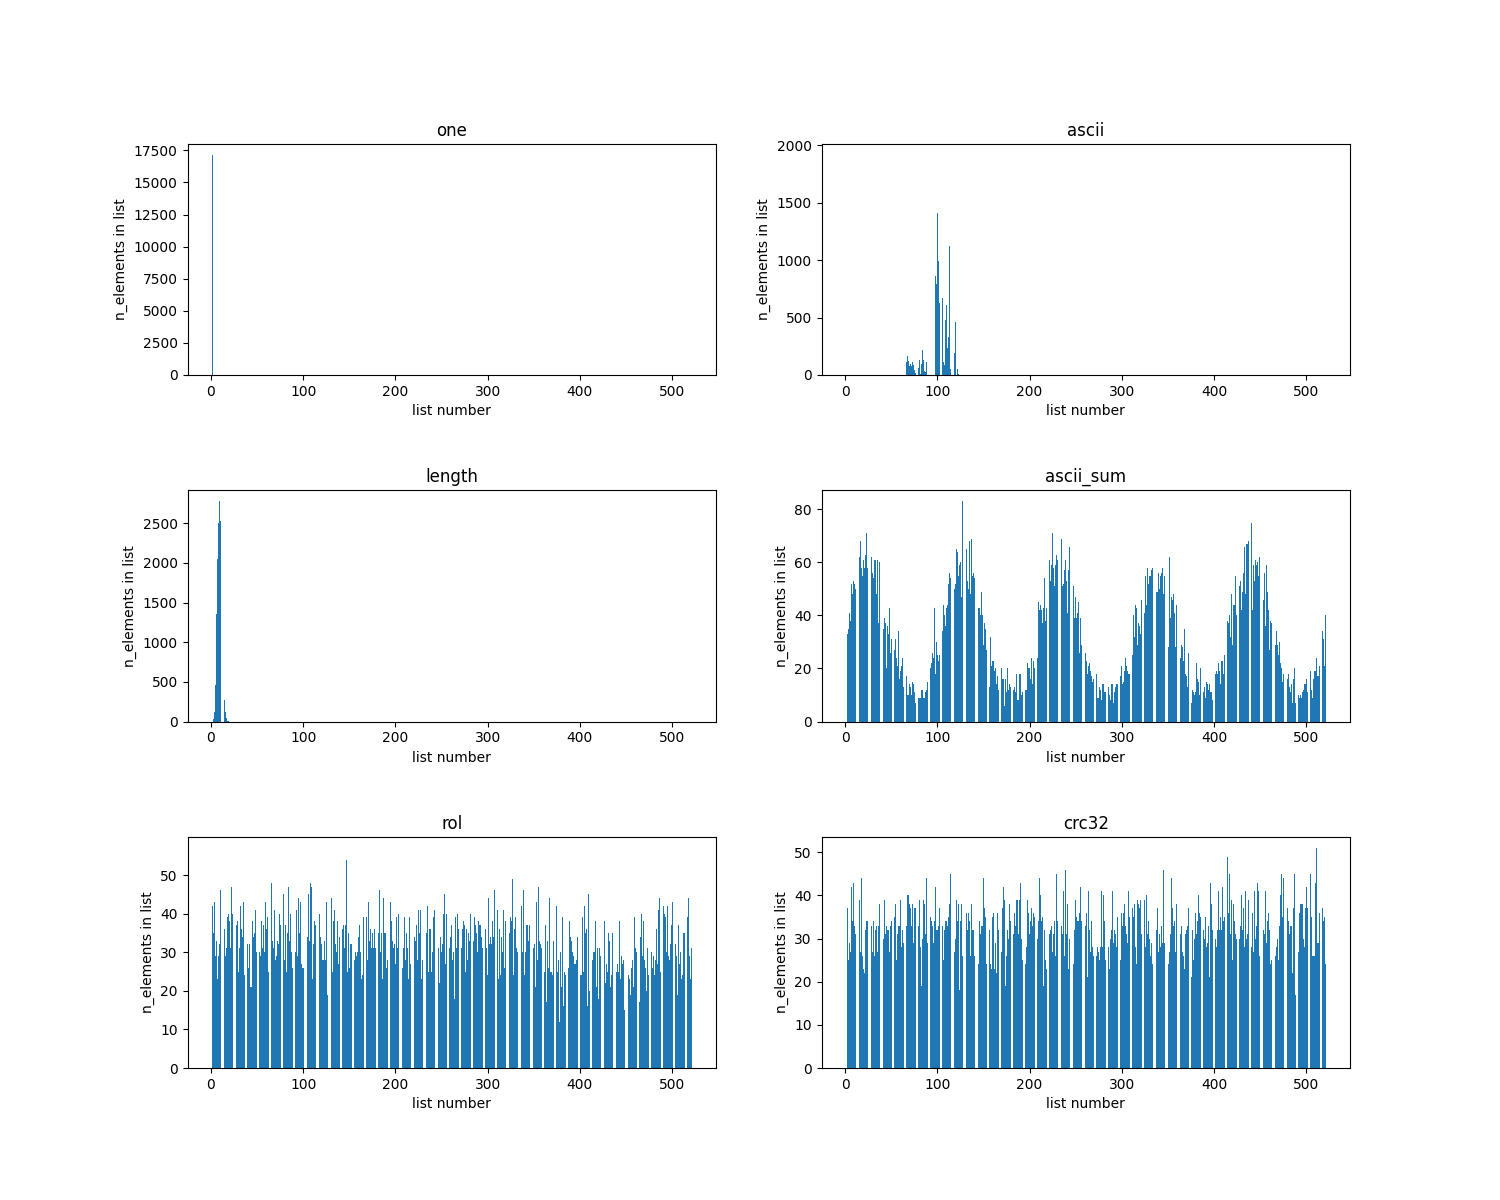
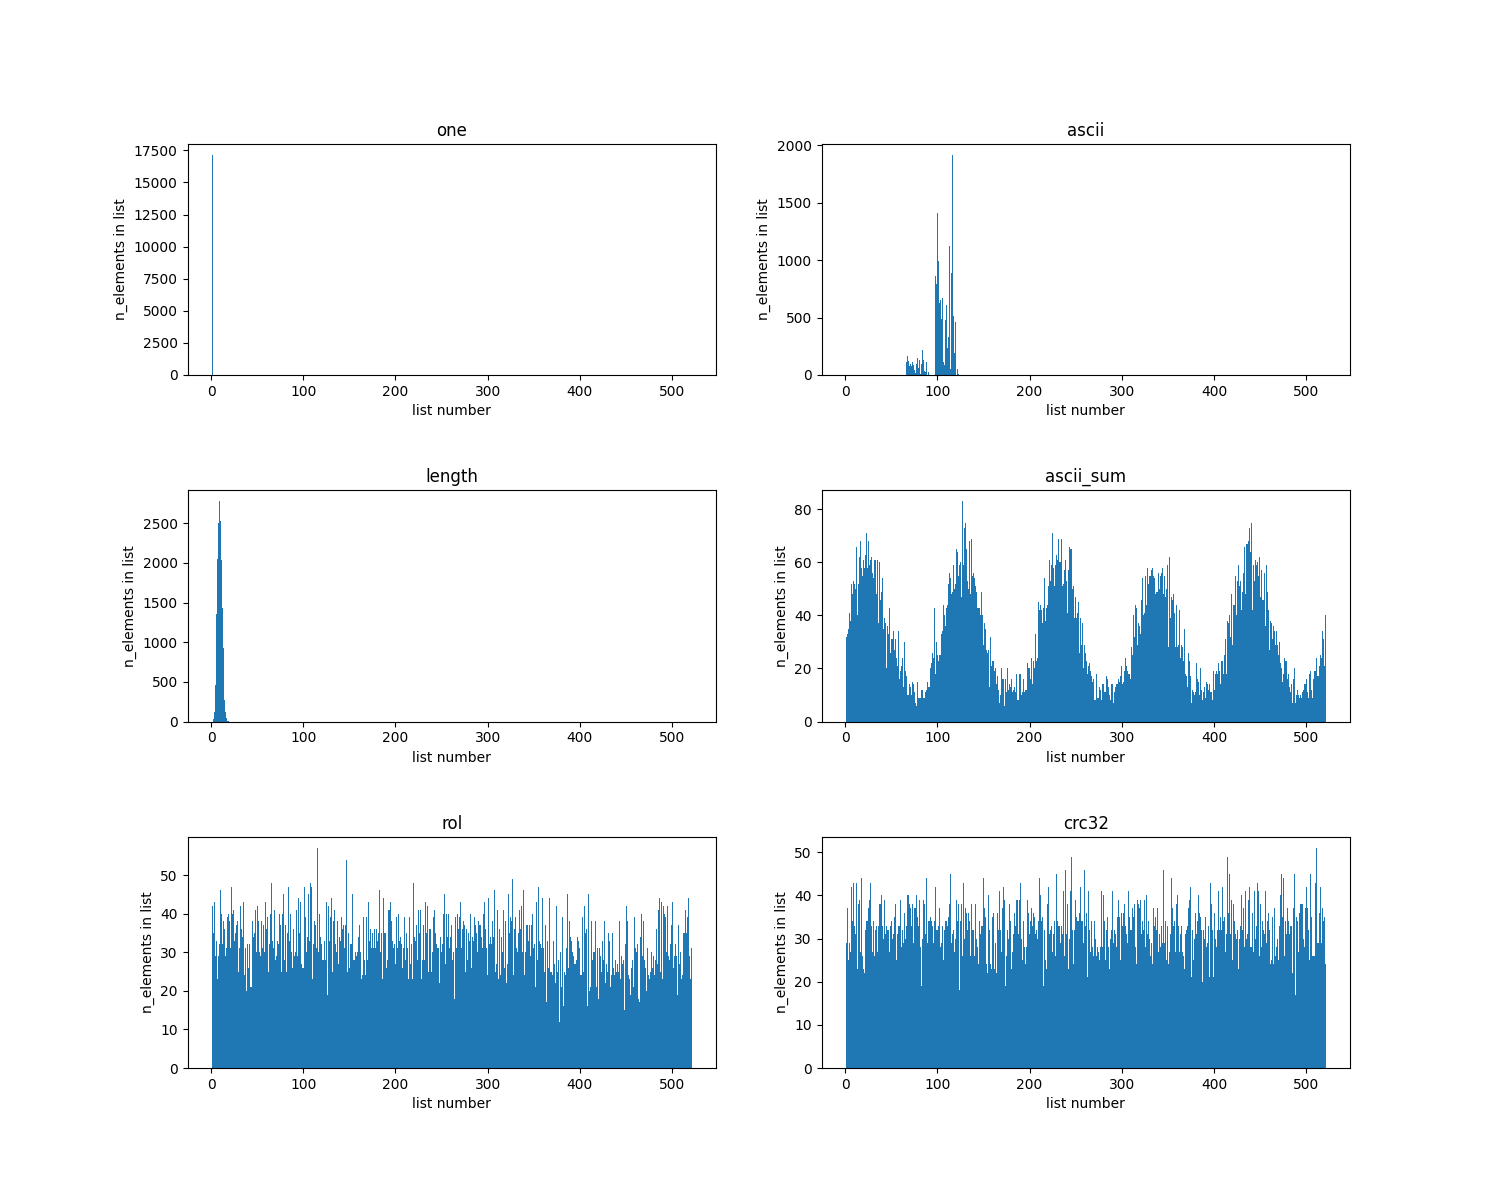
Eddited README and graphs.

diff --git a/utils/write_readme.cpp b/utils/write_readme.cpp
@@ -15,13 +15,13 @@ int main ()
         return paste_perf_in_readme();
 }
 
-const char *TABLE = "Optimisation     | In time allocation, s | Preallocated, s        \n"
+const char *TABLE = "Optimisation     | In time allocation, s (reduced by) | Preallocated, s        \n"
                     "-----------------|------------------|-------------         \n"
                     "No               |      %f          |      %f              \n"
-                    "Assambly crc32         |      %f ( -%d%%)   |      %f  ( -%d%%)      \n"
-                    "+Inlined Assembly crc32 |      %f ( -%d%%)   |      %f  ( -%d%%)      \n"
-                    "+Cycle instead recursion            |      %f ( -%d%%)   |      %f  ( -%d%%)      \n"
-                    "+AVX strcmp       |      %f ( -%d%%)   |      %f  ( -%d%%)      \n%n";
+                    "Assambly crc32         |      %f (%0.2f)   |      %f  (%0.2f)      \n"
+                    "+Inlined Assembly crc32 |      %f (%0.2f)   |      %f  (%0.2f)      \n"
+                    "+Cycle instead recursion            |      %f (%0.2f)   |      %f  (%0.2f)      \n"
+                    "+AVX strcmp       |      %f (%0.2f)   |      %f  (%0.2f)      \n%n";
 
 int paste_perf_in_readme ()
 {
@@ -75,10 +75,10 @@ int paste_perf_in_readme ()
         int chars_from_table = 0;
         while (readme_chars_left) {
                 if (!strncmp(readme_symb, "!*!*!*TABLE", 11)) {
-                        sprintf(symb_ptr, TABLE, timing[1], timing[6], timing[2], (int)(100*(timing[1] / timing[2] - 1)), timing[7], (int)(100*(timing[6] / timing[7] - 1)),
-                                                                       timing[3], (int)(100*(timing[1] / timing[3] - 1)), timing[8], (int)(100*(timing[6] / timing[8] - 1)),
-                                                                       timing[4], (int)(100*(timing[1] / timing[4] - 1)),  timing[9], (int)(100*(timing[6] / timing[9] - 1)),
-                                                                       timing[5], (int)(100*(timing[1] / timing[5] - 1)), timing[10], (int)(100*(timing[6] / timing[10] - 1)),
+                        sprintf(symb_ptr, TABLE, timing[1], timing[6], timing[2], ((timing[1] / timing[2])), timing[7], ((timing[6] / timing[7])),
+                                                                       timing[3], ((timing[1] / timing[3])), timing[8], ((timing[6] / timing[8])),
+                                                                       timing[4], ((timing[1] / timing[4])), timing[9], ((timing[6] / timing[9])),
+                                                                       timing[5], ((timing[1] / timing[5])), timing[10], ((timing[6] / timing[10])),
                                                                         &chars_from_table);
                         readme_symb       += 17;
                         readme_chars_left -= 17;

diff --git a/graphics/graph.py b/graphics/graph.py
@@ -32,8 +32,7 @@ for line, ax in zip(file, axs.ravel()):
         if name == 'my':
                 continue
 
-        ax.bar(x, y)
-        # plt.xticks(np.arange(0, i, step=1))
+        ax.bar(x, y, width=1)
 
         ax.set_title(name)
         ax.set_xlabel("list number")
@@ -63,8 +62,7 @@ for line in file:
         if name != 'crc32':
                 continue
 
-        ax.bar(x, y)
-        # plt.xticks(np.arange(0, i, step=1))
+        ax.bar(x, y, width=1)
 
         ax.set_title(name)
         ax.set_xlabel("list number")

diff --git a/README.md b/README.md
@@ -4,8 +4,8 @@
 ## Overview
 
 1) [Introduction](#what-is-it?)
-2) [Hashfunctions](#hashfuncs-overview)
-2) [Optimisation](#optimisation)
+2) [Hashfunctions](#hashfunctions-overview)
+2) [Optimization](#optimization)
 3) [Tests without prealocation](#general-performance)
 4) [Tests with prealocation](#prealigned-and-preallocated-words)
 5) [Conclusion](#conclusion)
@@ -23,9 +23,9 @@ A hashtable or hash map is a data structure that implements an associative array
 3. This hashcodes is the indexes of lists in hashtable.
 4. If words has the same hash they are inserted into next position in list.
 
-## Hashfuncs overview
+## Hashfunctions overview
 
-Before testing hashtable we need to choose the best hash function. We have 6 function to compare:
+Before testing hashtable we need to choose the best hash function. We have 6 functions to compare:
 
 Number |    Func    | Description
 -------|----------- | -------------
@@ -36,7 +36,7 @@ Number |    Func    | Description
  5 | rol            | for i in strlen(word): hash = rol(hash) ^ word[i]
  6 | crc32          | ...
 
-Element distribution for each function is on the graph (y - number of elements in list, x - list number):
+Element distribution for each function is on the graph (vertical axis - number of elements in list, horizontal axis - list number):
 
 ![Alt graphs](https://github.com/XelerT/hashtable/blob/main/imgs/graphs.png)
 
@@ -45,7 +45,7 @@ After analyzing graphs, we can say that rol and crc32 can be used as hash-functi
 >**Note:** Tests were done using hashtable size equals 521.
 
 
-## Optimisation
+## Optimization
 ---
 In this part of project **crc32** was chosen as hash function.
 
@@ -74,7 +74,7 @@ Also you can generate README.md file with your last perf stats:
 </details>
 
 
-Without any optimisations we have these results:
+Without any optimizations we have these results:
 
 <pre>
 # started on Fri Apr 28 13:00:24 2023
@@ -96,7 +96,8 @@ Without any optimisations we have these results:
 Main time-consuming functions:
 
 <pre>
--   69.53%    69.53%  hash-tables.out  hash-tables.out       [.] get_crc32_hash           main
+-   69.53%    69.53%  hash-tables.out  hash-tables.out       [.] get_crc32_hash
+        - main
          - 68.02% find_words_crc32
             - 67.98% find_elem
                  get_crc32_hash
@@ -110,7 +111,7 @@ Main time-consuming functions:
       + 5.28% find_words_crc32
 </pre>
 
-## Assembler optimisation
+## Assembler optimization
 
 Firstly we need to optimise the most consuming function - get_crc32_hash:
 
@@ -167,7 +168,7 @@ asm_get_crc32_hash:
         ret
 ```
 
-Result of this optimisation is very good. Time performance boost is 245% and cache-misses reduced by 20.8%.
+Result of this optimization is very good. Execution time decreased by 3.45 times and cache-misses reduced by 20.8%.
 
 <pre>
 # started on Fri Apr 28 13:03:21 2023
@@ -188,7 +189,7 @@ Result of this optimisation is very good. Time performance boost is 245% and cac
 
 ### Inlined asm
 
-Using inlining, we can try to get more from assembly optimisation. We will use inline assembly in function which find elements.
+Using inlining, we can try to get more from assembly optimization. We will use inline assembly in function which find elements.
 
 ```C
 
@@ -333,7 +334,7 @@ bool find_word_in_list (list_t *list, word_t *word, size_t position)
 
 </pre>
 
-We get 16% improvement in time and don't have any change in cache-misses if we take error into account.
+Program has been improved, being 1.16x faster and we don't have any change in cache-misses if we take error into account.
 
 ## Strcmp
 
@@ -396,7 +397,7 @@ Results after:
 
 # Prealigned and preallocated words
 
-Now we will briefly repeat previous part of work but we will align words using **aligned_alloc()**, preparing them for avx optimisation before testing search.
+Now we will briefly repeat previous part of work but we will align words using **aligned_alloc()**, preparing them for avx optimization before testing search.
 
 ## Gereral performance
 
@@ -417,7 +418,7 @@ Now we will briefly repeat previous part of work but we will align words using *
 
 </pre>
 
-## Assembler optimisation
+## Assembler optimization
 
 Stats after using crc32 in assembly:
 
@@ -486,7 +487,7 @@ After removing recursion we have these stats:
 
 </pre>
 
-Boost in time is 17.5%.
+Time reduced by 1.18 times.
 
 ### Strcmp
 
@@ -538,16 +539,16 @@ We have small difference in time performance but we made cache-misses worse.
 
 Stats relative to general performance:
 
-Optimisation     | In time allocation, s | Preallocated, s        
+Optimisation     | In time allocation, s (reduced by) | Preallocated, s        
 -----------------|------------------|-------------         
 No               |      17.545000          |      16.016600              
-Assambly crc32         |      5.079600 ( -245%)   |      5.145970  ( -211%)      
-+Inlined Assembly crc32 |      5.078700 ( -245%)   |      5.095800  ( -214%)      
-+Cycle instead recursion            |      4.362410 ( -302%)   |      4.337500  ( -269%)      
-+AVX strcmp       |      4.747100 ( -269%)   |      4.373980  ( -266%)      
+Assambly crc32         |      5.079600 (3.45)   |      5.145970  (3.11)      
++Inlined Assembly crc32 |      5.078700 (3.45)   |      5.095800  (3.14)      
++Cycle instead recursion            |      4.362410 (4.02)   |      4.337500  (3.69)      
++AVX strcmp       |      4.747100 (3.70)   |      4.373980  (3.66)      
 
 
-We can say that we don't need to use AVX optimisation because it becomes the most time consuming function. Strcmp is only 1% of searching function. Maybe if we had word data base only with very long words we would have some benefit from this optimisation.
+We can say that we don't need to use AVX optimization because it becomes the most time consuming function. Strcmp is only 1% of find_word_in_list function. Maybe if we had word data base only with very long words we would have some benefit from this optimization.
 
 <pre>
 -   68.51%    34.08%  hash-tables.out  hash-tables.out       [.] find_word_in_list
@@ -564,7 +565,7 @@ We can say that we don't need to use AVX optimisation because it becomes the mos
       + 49.98% avx_wordcmp
 </pre>
 
-Without avx optimisation and using prealigned and preallocated words we have 269% improvement in time performance and have improvement in cache-misses on 14%.
+Without avx optimization and using prealigned and preallocated words we have 269% improvement in time performance and have improvement in cache-misses on 14%.
 Without prealigned words we have 302% boost in time performance and we reduced cache-misses by 22%.
 
 With preallocated words time performance is 0.5% better but with error we don't have any benefit.

diff --git a/utils/RAW_README.md b/utils/RAW_README.md
@@ -4,8 +4,8 @@
 ## Overview
 
 1) [Introduction](#what-is-it?)
-2) [Hashfunctions](#hashfuncs-overview)
-2) [Optimisation](#optimisation)
+2) [Hashfunctions](#hashfunctions-overview)
+2) [Optimization](#optimization)
 3) [Tests without prealocation](#general-performance)
 4) [Tests with prealocation](#prealigned-and-preallocated-words)
 5) [Conclusion](#conclusion)
@@ -23,9 +23,9 @@ A hashtable or hash map is a data structure that implements an associative array
 3. This hashcodes is the indexes of lists in hashtable.
 4. If words has the same hash they are inserted into next position in list.
 
-## Hashfuncs overview
+## Hashfunctions overview
 
-Before testing hashtable we need to choose the best hash function. We have 6 function to compare:
+Before testing hashtable we need to choose the best hash function. We have 6 functions to compare:
 
 Number |    Func    | Description
 -------|----------- | -------------
@@ -36,7 +36,7 @@ Number |    Func    | Description
  5 | rol            | for i in strlen(word): hash = rol(hash) ^ word[i]
  6 | crc32          | ...
 
-Element distribution for each function is on the graph (y - number of elements in list, x - list number):
+Element distribution for each function is on the graph (vertical axis - number of elements in list, horizontal axis - list number):
 
 ![Alt graphs](https://github.com/XelerT/hashtable/blob/main/imgs/graphs.png)
 
@@ -45,7 +45,7 @@ After analyzing graphs, we can say that rol and crc32 can be used as hash-functi
 >**Note:** Tests were done using hashtable size equals 521.
 
 
-## Optimisation
+## Optimization
 ---
 In this part of project **crc32** was chosen as hash function.
 
@@ -74,7 +74,7 @@ Also you can generate README.md file with your last perf stats:
 </details>
 
 
-Without any optimisations we have these results:
+Without any optimizations we have these results:
 
 <pre>
 !*!*!* 1*!*!*!
@@ -83,7 +83,8 @@ Without any optimisations we have these results:
 Main time-consuming functions:
 
 <pre>
--   69.53%    69.53%  hash-tables.out  hash-tables.out       [.] get_crc32_hash           main
+-   69.53%    69.53%  hash-tables.out  hash-tables.out       [.] get_crc32_hash
+        - main
          - 68.02% find_words_crc32
             - 67.98% find_elem
                  get_crc32_hash
@@ -97,7 +98,7 @@ Main time-consuming functions:
       + 5.28% find_words_crc32
 </pre>
 
-## Assembler optimisation
+## Assembler optimization
 
 Firstly we need to optimise the most consuming function - get_crc32_hash:
 
@@ -154,7 +155,7 @@ asm_get_crc32_hash:
         ret
 ```
 
-Result of this optimisation is very good. Time performance boost is 245% and cache-misses reduced by 20.8%.
+Result of this optimization is very good. Execution time decreased by 3.45 times and cache-misses reduced by 20.8%.
 
 <pre>
 !*!*!* 4*!*!*!
@@ -162,7 +163,7 @@ Result of this optimisation is very good. Time performance boost is 245% and cac
 
 ### Inlined asm
 
-Using inlining, we can try to get more from assembly optimisation. We will use inline assembly in function which find elements.
+Using inlining, we can try to get more from assembly optimization. We will use inline assembly in function which find elements.
 
 ```C
 
@@ -281,7 +282,7 @@ bool find_word_in_list (list_t *list, word_t *word, size_t position)
 !*!*!* 2*!*!*!
 </pre>
 
-We get 16% improvement in time and don't have any change in cache-misses if we take error into account.
+Program has been improved, being 1.16x faster and we don't have any change in cache-misses if we take error into account.
 
 ## Strcmp
 
@@ -331,7 +332,7 @@ Results after:
 
 # Prealigned and preallocated words
 
-Now we will briefly repeat previous part of work but we will align words using **aligned_alloc()**, preparing them for avx optimisation before testing search.
+Now we will briefly repeat previous part of work but we will align words using **aligned_alloc()**, preparing them for avx optimization before testing search.
 
 ## Gereral performance
 
@@ -339,7 +340,7 @@ Now we will briefly repeat previous part of work but we will align words using *
 !*!*!* 6*!*!*!
 </pre>
 
-## Assembler optimisation
+## Assembler optimization
 
 Stats after using crc32 in assembly:
 
@@ -369,7 +370,7 @@ After removing recursion we have these stats:
 !*!*!* 7*!*!*!
 </pre>
 
-Boost in time is 17.5%.
+Time reduced by 1.18 times.
 
 ### Strcmp
 
@@ -410,7 +411,7 @@ Stats relative to general performance:
 
 !*!*!*TABLE!*!*!*
 
-We can say that we don't need to use AVX optimisation because it becomes the most time consuming function. Strcmp is only 1% of searching function. Maybe if we had word data base only with very long words we would have some benefit from this optimisation.
+We can say that we don't need to use AVX optimization because it becomes the most time consuming function. Strcmp is only 1% of find_word_in_list function. Maybe if we had word data base only with very long words we would have some benefit from this optimization.
 
 <pre>
 -   68.51%    34.08%  hash-tables.out  hash-tables.out       [.] find_word_in_list
@@ -427,7 +428,7 @@ We can say that we don't need to use AVX optimisation because it becomes the mos
       + 49.98% avx_wordcmp
 </pre>
 
-Without avx optimisation and using prealigned and preallocated words we have 269% improvement in time performance and have improvement in cache-misses on 14%.
+Without avx optimization and using prealigned and preallocated words we have 269% improvement in time performance and have improvement in cache-misses on 14%.
 Without prealigned words we have 302% boost in time performance and we reduced cache-misses by 22%.
 
 With preallocated words time performance is 0.5% better but with error we don't have any benefit.
